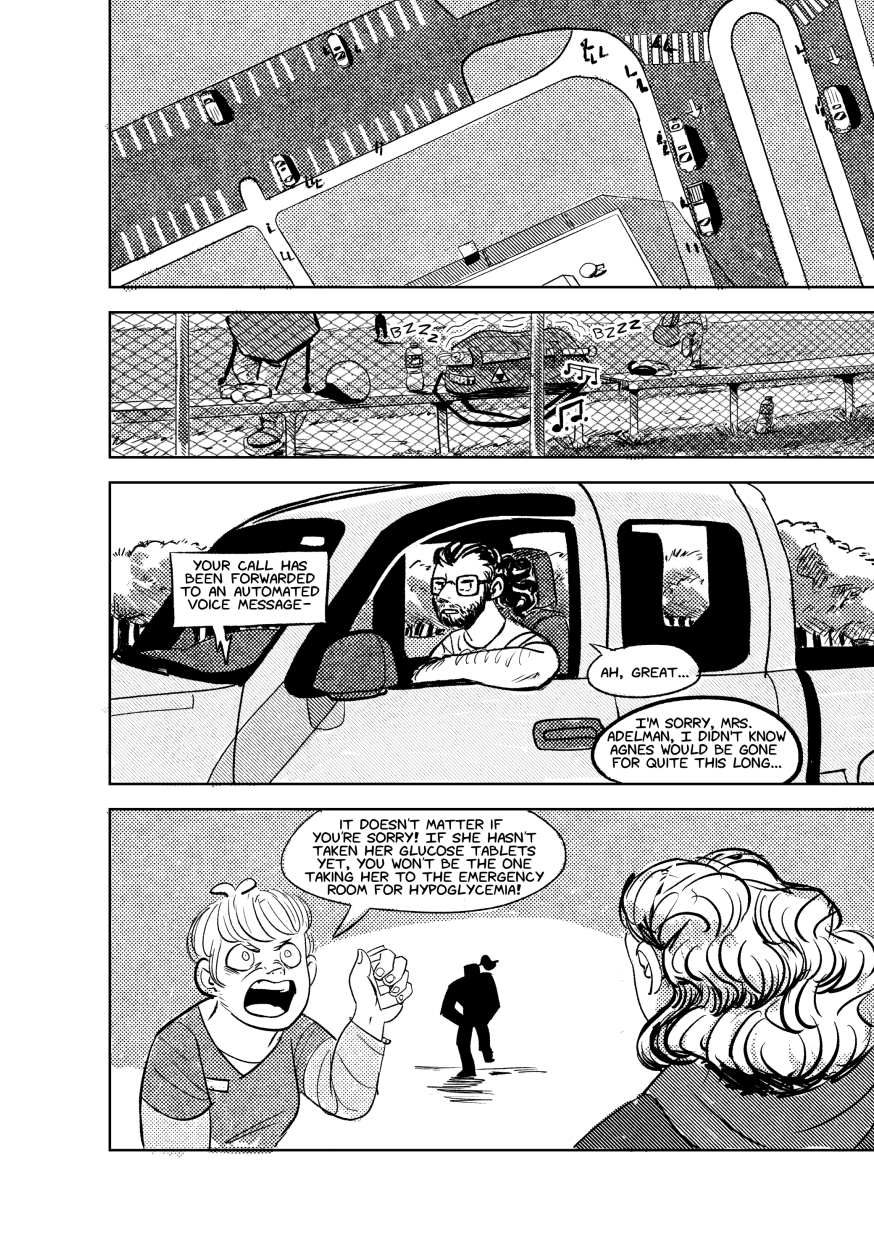
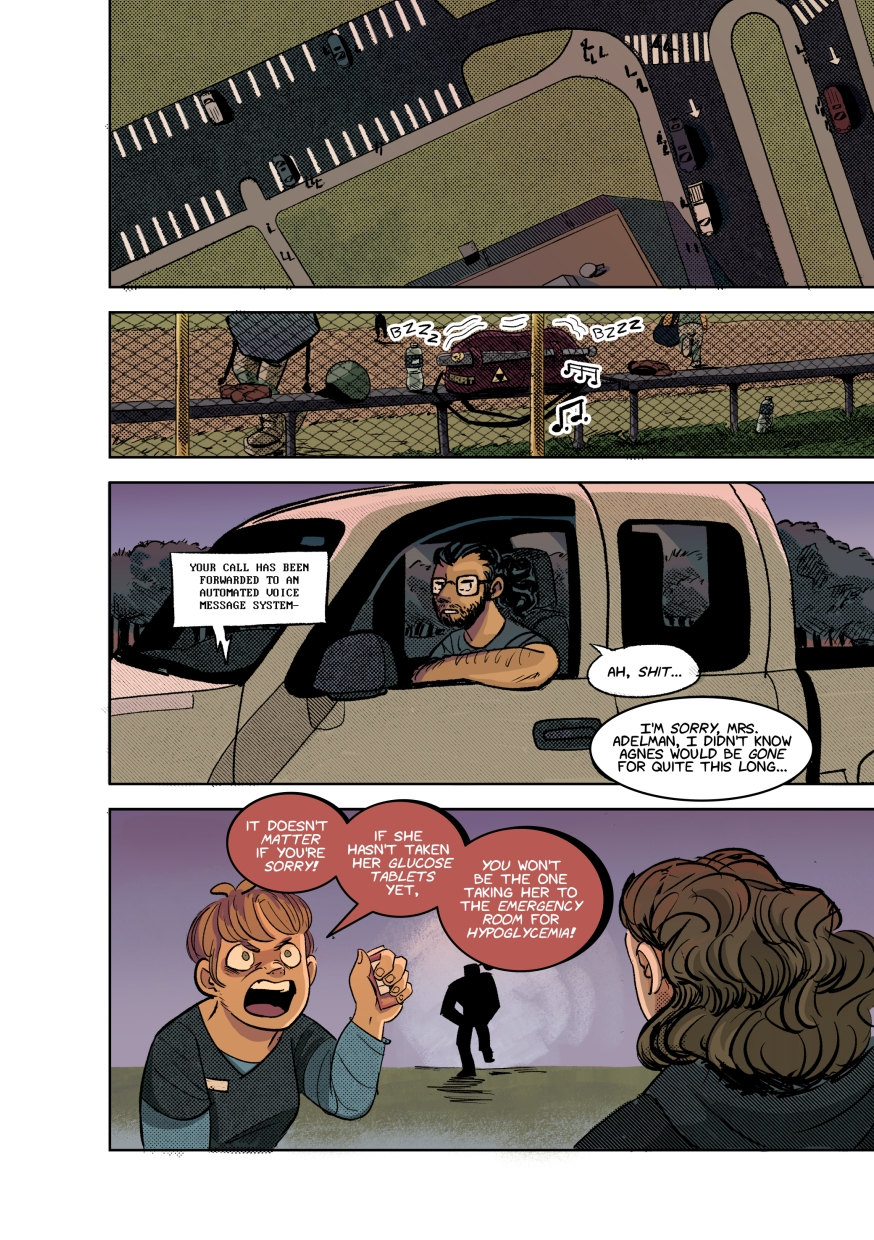
new colored pages, and maybe a fix for part 2 on mobile?

diff --git a/about.html b/about.html
@@ -40,9 +40,9 @@
 				<p><strong>Kenny Amisial</strong></p>  
 				<p><strong>Brailey Asmodi</strong></p>
 				<p><strong>Jordan Carroccia</strong></p>       		
-				<p><strong>Elizabeth Craster</strong></p>  
-				<p><strong>Quintin Duckery</strong></p>  
-				<p><strong>Willis Duckery a.k.a. "Afro"</strong></p>
+				<p><strong>Elisabeth Craster</strong></p>
+				<p><strong>Quintin Duckery a.k.a. "Afro"</strong></p>
+				<p><strong>Willis Duckery</strong></p>
 				<p><strong>Dallas Hayes</strong></p>
 				<p><strong>Patrick Higgins</strong></p>  
 				<p><strong>Robbie Jose</strong></p>  
@@ -61,12 +61,12 @@
     <!-- footer -->
     <div class="writeFooter"></div>
 
-<!-- at the end of this page we only call the header and footer scripts, because we don't need use any functions from the other scripts. -->
-<script src="js/comic_header.js" defer></script>
-<script src="js/comic_footer.js" defer></script>
+    <!-- at the end of this page we only call the header and footer scripts, because we don't need use any functions from the other scripts. -->
+    <script src="js/comic_header.js" defer></script>
+    <script src="js/comic_footer.js" defer></script>
 
-<!-- plus the TornPaper Script -sam -->
-<script src="js/tornpaper.js" defer></script>
+    <!-- plus the TornPaper Script -sam -->
+    <script src="js/tornpaper.js" defer></script>
 
-</body>
+    </body>
 </html>

diff --git a/index.html b/index.html
@@ -47,7 +47,7 @@
     <script src="js/comic_header.js" defer></script>
     <script src="js/comic_footer.js" defer></script>
 
-	<!-- plus the TornPaper Script -sam -->
-		<script src="js/tornpaper.js"></script>
+  <!-- plus the TornPaper Script -sam -->
+    <script src="js/tornpaper.js"></script>
   </body>
 </html>

diff --git a/js/comic_settings.js b/js/comic_settings.js
@@ -70,7 +70,7 @@ const pgData = [
         title: "It Came From Beneath Our School, Pt. 2",
         date: writeDate(2026, 4, 4),
         altText: "",
-        imageFiles: "5",
+        imageFiles: 5,
         authorNotes: `
             <p>A WIP part I am sharing early.</p>
             `,
